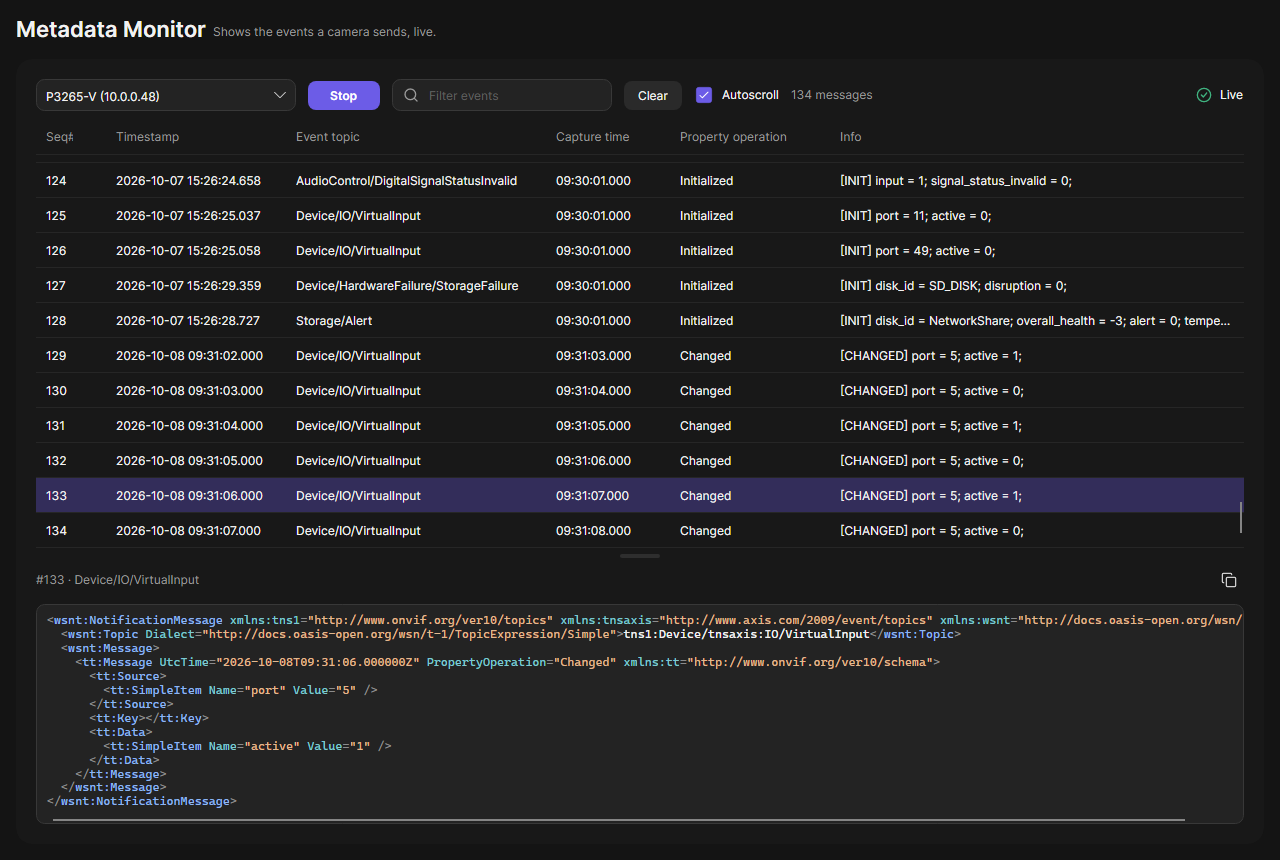
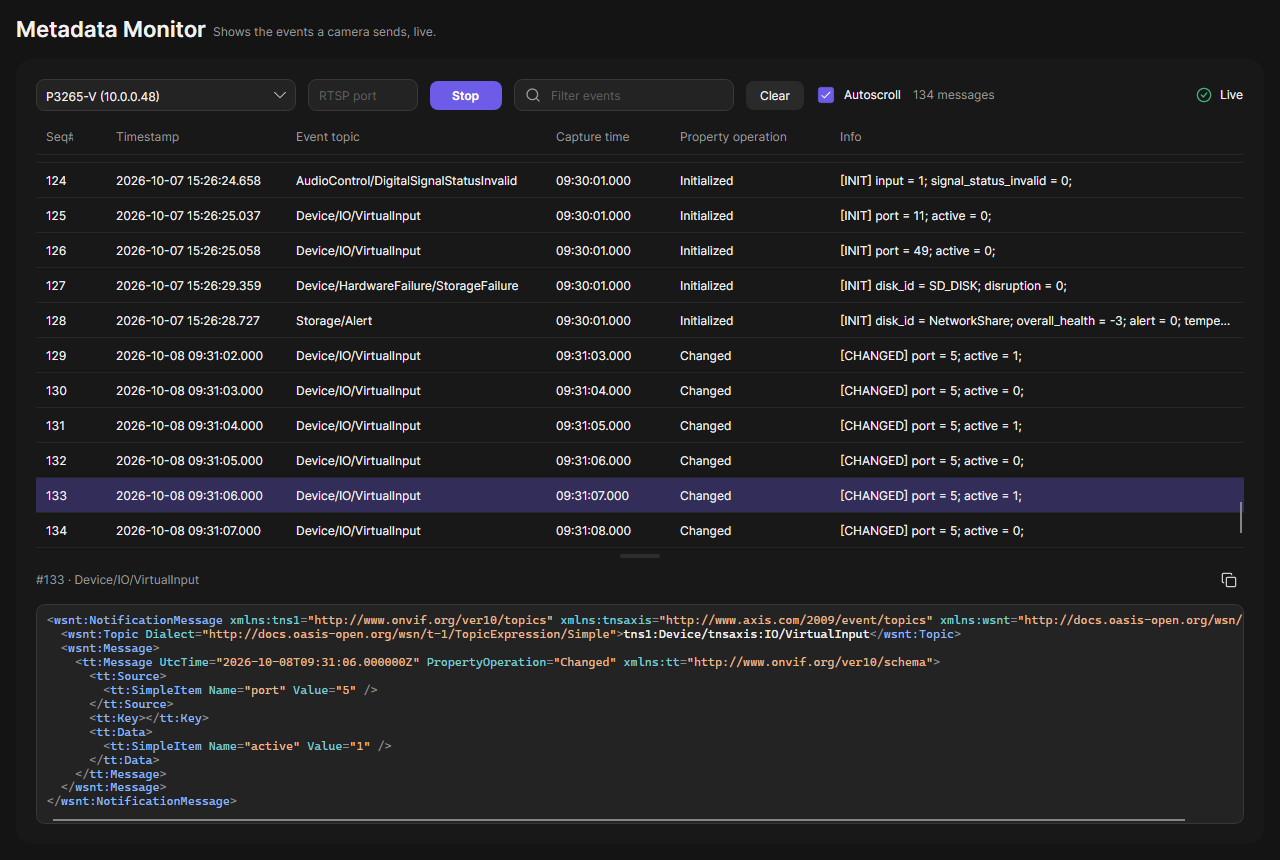
docs: Image Health Dashboard, plugins on and off, Metadata Monitor RTSP port
Spec (CLAUDE.md), plugin guide (enabledByDefault), plugin README and the website: a page for the Image
Health Dashboard, the plugin list on the Settings page, the RTSP port of the Metadata Monitor, the
Hardening scan off by default; new screenshots.

Claude-Session: https://claude.ai/code/session_01DxqjaJMjAJLyCUSTpPxG58

Changed region(s): [[0.4375, 0.0907, 0.7812, 0.1209], [0.2188, 0.0907, 0.4062, 0.1512]]

diff --git a/CLAUDE.md b/CLAUDE.md
@@ -161,7 +161,8 @@ plugins/                (layout and SDK guide: plugins/README.md)
   Oadm.Plugins.MetadataMonitor(.Client)/  core plugin: live event stream of one camera (RTSP metadata, port of AXIS Metadata Monitor)
   Oadm.Plugins.Pki(.Client)/              core plugin: PKI (one CA for device certificates, trusted root store)
   Oadm.Plugins.SystemReport(.Client)/     core plugin without a page: toolbar "System report" (server reports in one ZIP)
-  Oadm.Plugins.HardeningScan(.Client)/    core plugin: read-only scan against the AXIS OS hardening guide
+  Oadm.Plugins.HardeningScan(.Client)/    core plugin: read-only scan against the AXIS OS hardening guide (off by default)
+  Oadm.Plugins.ImageHealth(.Client)/      core plugin: Image Health Dashboard, AXIS Image Health Analytics status of every camera (off by default)
   Oadm.Plugins.<Name>/          server part: Oadm.Plugins.<Name>.Server.dll + plugin.json
   Oadm.Plugins.<Name>.Client/   optional Avalonia part: Oadm.Plugins.<Name>.Client.dll
                                 (both copy their output to artifacts/plugins/<plugin id>/)
@@ -288,7 +289,10 @@ Two processes, like ADM:
   {plugin_id, topic, payload_json} the plugin publishes through `ICorePluginContext.Events` from the call on; NOT_FOUND
   unknown plugin; `Oadm.Core.Plugins.PluginEventHub` fans out with 256 events buffered per watcher, oldest dropped).
   Users: "Snapshot report", "VAPIX Commander", "NTP server", "DHCP server", "PKI", "Metadata Monitor", "Hardening scan",
-  "System report" (from its toolbar button through `IToolbarContext.InvokePluginAsync`).
+  "Image Health Dashboard", "System report" (from its toolbar button through `IToolbarContext.InvokePluginAsync`).
+  `ListPackages` (every loaded plugin package with id, display name, version, enabled, enabled_by_default, has_page,
+  menu_task_count; any user) and `SetPackageEnabled(id, enabled)` (Admin; NOT_FOUND unknown package; reply: the whole
+  list), see "Plugins on and off".
 - `SettingsService`: `Get`, `Set` (`ServerSettings.zero_conf_seconds = 8`, 0 keeps the stored value; read-only
   `server_version = 21` in both replies for the About page),
   `ListCredentials`, `AddCredential(user_name, password)`
@@ -616,7 +620,7 @@ Dark only, calm and spacious, no gradients inside the app (one exception: the so
   expand/collapse toggle at the bottom of the rail; expanded ~220 px with icon + label.
   Selected item as rounded pill `#2A2A2A`. Entries top: Devices, then one per Core plugin
   page, grouped by `ICorePlugin.Group` (`CorePluginGroup`, in this order: Servers (NTP, DHCP), Automation (VAPIX
-  Commander), Security (PKI, Hardening scan), Monitoring (Metadata Monitor), Reporting (Snapshot report; System report has
+  Commander), Security (PKI, Hardening scan), Monitoring (Metadata Monitor, Image Health Dashboard), Reporting (Snapshot report; System report has
   no page), Maintenance, Integrations, Utilities, Extensions (default, third-party); user decision 2026-10-08): only groups
   with pages appear, the server's order inside a group; expanded rail = a small grey header (`TextBlock.navGroup`) above
   each group, collapsed = a separator at each group start. Pinned bottom, top to bottom: Users and Credentials (Admin only: hidden for operators, follow the session
@@ -1053,7 +1057,8 @@ public interface ICorePluginContext
     IPluginEvents? Events => null;     // Publish(topic, payloadJson): live events to the plugin's page (PluginService.Watch)
     ITrustAnchors? TrustAnchors => null; // Set(der[]): CAs the server trusts when rating device certificates (per plugin)
     IDeviceEventStreams? EventStreams => null; // OpenAsync(deviceId): the device's RTSP event stream with the stored
-                                       // credentials (never handed out): XML documents, LostDocuments, dispose = TEARDOWN
+                                       // credentials (never handed out): XML documents, LostDocuments, dispose = TEARDOWN;
+                                       // Get/SetRtspPortAsync(deviceId): the device's RTSP port (port forward, null = 554)
     IFirewallRules? Firewall => null;  // Open/CloseAsync(FirewallRule): inbound allow rule for the server exe, Domain +
                                        // Private; only the Windows service offers it (netsh), else null. Helper:
                                        // FirewallRuleKeeper.SyncAsync(enabled) (Oadm.Sdk.Network)
@@ -1195,11 +1200,37 @@ answers is unchanged. Used by the System report for server reports.
   `ICorePlugin` implementations via reflection, then registers the Core plugins' `TaskPlugins`
   too. Client does the same for `*.Client.dll` with `ITaskPluginDialog`, `ICorePluginPage` and
   `IToolbarPlugin` over the same three roots (`ClientPluginLoader.DefaultRoots`).
-- Plugin folder: `plugin.json` (id, version, minSdkVersion), `<Name>.Server.dll`,
-  optional `<Name>.Client.dll`, private dependencies. SDK assemblies are shared from the
+- Plugin folder: `plugin.json` (id, version, minSdkVersion, displayName, optional `enabledByDefault`, default true),
+  `<Name>.Server.dll`, optional `<Name>.Client.dll`, private dependencies. SDK assemblies are shared from the
   host and never copied into the plugin folder.
 - Plugin failures (load or execution) are logged and isolated; a broken plugin never
   prevents server or client from starting.
+
+### Plugins on and off
+
+User decision 2026-10-09: the Settings page lists every plugin package (one plugin folder = one row: its core plugins,
+contributed and standalone tasks and client parts together) and administrators turn each on or off; the change applies
+at once without a restart.
+- Default: the manifest's `enabledByDefault` (`PluginManifest.EnabledByDefault`, `PluginOrigin.EnabledByDefault`).
+  **Off by default: Hardening scan and Image Health Dashboard** (user decision). The administrator's choices are the
+  server setting `Plugins.Enabled` (JSON object package id -> on; packages without a choice use their default),
+  applied before the core plugins start (`Oadm.Server.Plugins.PluginActivation.LoadAsync`).
+- `PluginRegistry`: `TaskPlugins`, `CorePlugins`, `TryGetTaskPlugin`, `TryGetCorePlugin` see only enabled packages
+  (so ListCorePlugins, ListTaskPlugins, Run and Query skip a package that is off; the runnable cache follows the plugin
+  set); `AllTaskPlugins` / `AllCorePlugins` / `Packages` (`PluginPackageState`: origin, enabled, has page, menu task
+  count) see all. `SetEnabled` + `CorePluginHost.SyncEnabledAsync`: core plugins of a package turned off are stopped
+  (trust anchors removed), turned on are started. Invoking a core plugin that is off: FAILED_PRECONDITION "The <name>
+  plugin is turned off.". Tasks of the package already queued or running finish.
+- gRPC `PluginService.ListPackages` / `SetPackageEnabled` (Admin, audited "Turned plugin on" / "Turned plugin off",
+  target the plugin name).
+- Client: `Plugins/PluginPackageStore` (loaded on every connect; `Changed` reloads the rail pages and the task catalog
+  and hides the toolbar entries of packages that are off: `DeviceToolbar.ApplyPackageStates`, the package of a client
+  part from the plugin.json next to its dll, `IClientPluginRegistry.PackageOf`). Settings page card **Plugins**
+  (`Settings/PluginsViewModel`): DataGrid On (check box), Plugin, Adds ("Page", "9 context menu entries", "Toolbar
+  button"), Version; operators read-only; a refused change is undone with the reason below the list. Other clients
+  see a change on their next connect. Fake mode: `FakeOadmApi.Plugins.cs`.
+- Tests: `tests/Oadm.Server.Tests/PluginPackageTests` (default off, live start / stop, menus, roles, audit, stored
+  choice, the bundled manifests), `tests/Oadm.Client.Tests/PluginListTests` (headless `client-settings-plugins.png`).
 
 ## HARD RULE: device safety for task plugins
 
@@ -1340,8 +1371,8 @@ Read-only for devices (param.cgi reads and image.cgi snapshots).
   aspect (`VideoResolutions.Choose`, shared with the live view): grid 1280x720, report 1920x1080
   (`SnapshotReportPluginInfo`). Verified on 10.0.0.48 (AXIS OS 12.11): 1280x720 about 125 KB in
   0.1-0.3 s, camera=1/2 are the two view areas, a missing camera answers HTTP 400 with an HTML
-  "400 Bad Request" page. At most 4 device requests at a time (all callers), 10 s timeout each.
-  Errors are short texts (shared with every plugin: SDK `DeviceMessages`): "Timeout after 10 s", "Unauthorized - HTTP 401 (check the credentials)", "Forbidden - HTTP 403 (administrator rights are required)",
+  "400 Bad Request" page. At most 4 device requests at a time (all callers), 3 s timeout each (user decision 2026-10-09).
+  Errors are short texts (shared with every plugin: SDK `DeviceMessages`): "Timeout after 3 s", "Unauthorized - HTTP 401 (check the credentials)", "Forbidden - HTTP 403 (administrator rights are required)",
   "Bad Request - HTTP 400", "Unreachable - <socket error>", "The device has no video source 3", or the
   VAPIX text the device sent ("Error: ...").
 - `InvokeAsync` methods (`SnapshotReportMethods`, JSON camelCase, models in `Shared/`): `listSources`
@@ -1900,6 +1931,56 @@ Read-only for devices. Decided with the user on 2026-10-08:
   Watch); Core: `MetadataDepacketizerTests`, `RtspMetadataSourceTests` (scripted RTSP server), `DeviceEventStreamsTests`,
   `MetadataRecorderTests` (Hardware; re-records `Fixtures/LiveView/events.sdp` + `.rtp` with `OADM_RECORD_RTP_DIR`).
 
+- **RTSP port** (user decision 2026-10-09): a field next to the camera select ("RTSP port", empty = 554, error below
+  the field for anything but 1..65535) for cameras behind NAT whose RTSP port is forwarded to another port. `start`
+  ({deviceId, rtspPort}) stores it on the server for the device (`IDeviceEventStreams.SetRtspPortAsync`, server setting
+  `Devices.RtspPorts` = JSON object device id -> port, written by `Oadm.Core.LiveView.DeviceEventStreams`; null or 554
+  removes it), `getRtspPort` ({deviceId}) prefills the field when a camera is chosen; every event stream of the device
+  uses it. Verified with a loan AXIS Q3548-LVE behind NAT (RTSP 554 forwarded to 32077).
+
+## Image Health Dashboard (core plugin)
+
+`plugins/Oadm.Plugins.ImageHealth` (+ `.Client`), id `oadm.image-health`, rail page **Image Health Dashboard** (group
+Monitoring, icon `eye`), **off by default** (`plugin.json` `enabledByDefault: false`). One table with the status of
+AXIS Image Health Analytics (AIHA) on every camera that has the app. Read-only for devices. Plugin `README.md`.
+Decided with the user on 2026-10-09:
+
+| Topic | Decision |
+|---|---|
+| Source | The app's own HTTP status, `GET /local/AXISImageHealthAnalytics/v1/status` with the stored credentials (no event stream). |
+| When | Only on request: the page checks once when it opens, **Refresh** checks again, **Auto refresh** (check box, off by default) every 10 s while the page is open. No background polling, nothing after the page was left. |
+| Load | 24 cameras at a time, 3 s per request (200 cameras = about 9 rounds). |
+| Not running | A camera with the app installed but stopped stays in the table as **Not running**. |
+
+- **Device API** (verified on an AXIS Q3548-LVE, AXIS OS 12.11.118, AIHA 3.2.2): 200 with JSON
+  `{"block":"normal","blur":"detected","redirect":"pending","status":"none","status_criticity":"info",
+  "under-exposure":"normal","unsuitability":"suitable"}` while the app runs; 503 (HTML) when it is installed but stopped;
+  404 without the app; 401 without credentials. Values: normal / pending / detected / disabled; unsuitability suitable /
+  unsuitable. Shown as **OK** (ok chip), **Pending** (warning: the app waits to confirm), **Detected** (error), **Off**
+  (neutral: turned off in the app); another value as sent (`DetectionStates.FromRaw`). `status` / `status_criticity` are
+  not shown.
+- **Server** (`Monitoring/ImageHealthMonitor`): `check` starts a check unless one runs and returns the state at once;
+  `getState` returns it without a request. A check lists the video devices (`HasVideo`), asks each once
+  (`Parallel.ForEachAsync`, `CheckParallelism` 24, `RequestTimeout` 3 s), keeps rows in memory between checks and
+  updates them in place: running (five detections), Not running (503, detections cleared), error (refused status
+  without a request: Credentials required, Password not set, Certificate changed, Unreachable; or the HTTP / timeout /
+  network text of `DeviceMessages`); 404 = without the app (counted, row removed); devices removed from OADM leave.
+  `ChangedUtc` = when a detection changed between two answers of the running app. Events (500 ms): `rows`
+  ({rows, removed}) and `state` (checking, checked, total, running, notRunning, withoutApp, failed, checkedUtc).
+- **Page** (one card, subtitle "AXIS Image Health Analytics on every camera."): Refresh, Auto refresh, SearchBox;
+  progress row "Checking cameras 120 of 200"; summary "3 cameras with the app running · 1 with a detection · 1 pending
+  · 1 not running · 2 without the app · 1 could not be checked · checked 19:34:14"; virtualized DataGrid (`wrapRows`)
+  Address, Model, Blur, Block, Redirect, Under-exposure, Unsuitability (status chips, sortable by severity), Last change,
+  App (Running ok, Not running warning, Checking accent, error text red). Empty: "No camera has AXIS Image Health
+  Analytics." Rows updated in place by device id; search, new and removed rows one reset (O(n), 5,000 tested).
+- Not in fake mode yet.
+- Tests: `tests/Oadm.Plugins.ImageHealth.Tests` (the three recorded answers, disabled / unsuitable / other values,
+  check lifecycle: no request without a check, Not running, removed app, changes timed, one check at a time, 24 at a
+  time with 200 cameras, failures; view model: one check on show, Auto refresh off by default and only while shown,
+  5,000 rows; headless `image-health-dashboard.png`; read-only hardware test `ImageHealthHardwareTests` through the
+  in-process server and the real page over gRPC, using the dev camera whose note mentions AIHA, renders
+  `image-health-dashboard-live.png`).
+
 ## System report plugin (core plugin without a page)
 
 `plugins/Oadm.Plugins.SystemReport` (+ `.Client`), id `oadm.system-report`, like ADM's "Get system report" (user decision
@@ -1943,7 +2024,7 @@ client saves one ZIP for Axis support. Read-only for devices.
 ## Hardening scan (core plugin)
 
 `plugins/Oadm.Plugins.HardeningScan` (+ `.Client`), id `oadm.hardening-scan`, rail page **Hardening scan** (icon
-`clipboardCheck`). Spec, check table, evidence from 10.0.0.48 and the decisions: plugin `README.md`. One read-only scan of every
+`clipboardCheck`), **off by default** (user decision 2026-10-09, see "Plugins on and off"). Spec, check table, evidence from 10.0.0.48 and the decisions: plugin `README.md`. One read-only scan of every
 managed device against the AXIS OS Hardening Guide in its two levels; one icon column per check (pass / warn / fail / read
 error / does not apply); the items that cannot be checked remotely are not shown on the page (user decision 2026-10-08).
 - Decisions (user, 2026-10-08): B2 latest AXIS OS = information only (version shown, not rated); the extras X1-X6 (HTTPS only,
@@ -2051,7 +2132,8 @@ tries when it adds devices.", `Settings/CredentialsViewModel` + `CredentialsView
 "Hide password" that loads it with `RevealCredential` and masks (and forgets) it on the second click, copy icon
 button "Copy password" (clipboard of the window, loaded on demand, not shown), added time, Remove as a red icon button), a separator, then the add form under the heading "Add credential" (user
 name, password, "Add credential"); stored encrypted on the server (`CredentialListStore`, table
-CredentialListEntries), tried on every discovered device (see "Add Devices Page"). Rail page **About** (everyone,
+CredentialListEntries), tried on every discovered device (see "Add Devices Page"). The Settings page's second card
+**Plugins** turns plugin packages on and off (see "Plugins on and off"). Rail page **About** (everyone,
 subtitle "Version and licenses.", `Settings/AboutPageView` around the card `Settings/AboutView`, `AboutViewModel`):
 terms of use (card title, a scrollable block with wider line spacing), client version, server version (`ServerSettings.server_version`), the
 sentence on the Apache-2.0 license, "Show licenses" shows `THIRD-PARTY-NOTICES.txt` (next to the exe, the macOS app's
@@ -2107,7 +2189,8 @@ marked *(default)* were filled in and can be changed. This section wins over old
   not change server configuration (Snapshot report, VAPIX Commander, Metadata Monitor, System report, PKI read and device
   certificate tasks). **Admin only**: `SettingsService.Set`, credential list (add, remove, reveal), users, `TaskService.DeleteAll`,
   PKI (generate, import, backup, export, install in the server root store, PKI settings), DHCP and NTP save / static
-  leases / release, renaming, recoloring and deleting a tag definition (`TagService.Update` / `Delete`). Core plugins declare their method roles through a new SDK member
+  leases / release, renaming, recoloring and deleting a tag definition (`TagService.Update` / `Delete`), turning plugins on
+  or off (`PluginService.SetPackageEnabled`). Core plugins declare their method roles through a new SDK member
   `ICorePlugin.RequiredRole(string method)` (DIM default Operator); the host checks it before `InvokeAsync`.
 - **Credential reveal**: Admin only, every reveal in the audit log; without a login (no users yet) it is refused.
 - **PKI "Install in trusted root store" on the server**: Admin only; the confirmation shows the CA's SHA-256 fingerprint;
@@ -2126,7 +2209,7 @@ marked *(default)* were filled in and can be changed. This section wins over old
   add/remove/reveal, PKI actions, DHCP/NTP save, task runs (plugin, device count), Delete all, device remove, device login
   ("Log in": user name, device and success counts), first password set ("Set password": counts), device added
   automatically / device moved (user "system", DHCP server), tags (created, renamed, color changed, deleted; tagging:
-  "Tagged 12 devices: +Building A -PTZ"), VAPIX Commander send / rollout. Logs page gets an **Audit** tab (Admin only, virtualized, SearchBox).
+  "Tagged 12 devices: +Building A -PTZ"), plugins turned on / off, VAPIX Commander send / rollout. Logs page gets an **Audit** tab (Admin only, virtualized, SearchBox).
 - **Implementation** (done 2026-10-08):
   - Server: `Oadm.Server.Auth` (`AuthInterceptor` on every call sets `Oadm.Core.Auth.CallerContext` for the call, so
     `TaskEngine.RunAsync` and core plugin task runs take the owner "user@machine" from it; `AccessPolicy` role table;

diff --git a/plugins/README.md b/plugins/README.md
@@ -10,7 +10,8 @@ RULE are in `CLAUDE.md` ("Plugin System").
 plugins/
   Oadm.Plugins.<Name>/              server part
     Oadm.Plugins.<Name>.csproj      AssemblyName Oadm.Plugins.<Name>.Server
-    plugin.json                     { "id": "oadm.<name>", "version", "minSdkVersion", "displayName" }
+    plugin.json                     { "id": "oadm.<name>", "version", "minSdkVersion", "displayName",
+                                      "enabledByDefault": true }  (optional; false = off until an admin turns it on)
     <Name>TaskPlugin.cs             ITaskPlugin (+ ITaskPluginQuery when the dialog reads state)
   Oadm.Plugins.<Name>.Client/       optional client part (Avalonia)
     Oadm.Plugins.<Name>.Client.csproj   AssemblyName Oadm.Plugins.<Name>.Client
